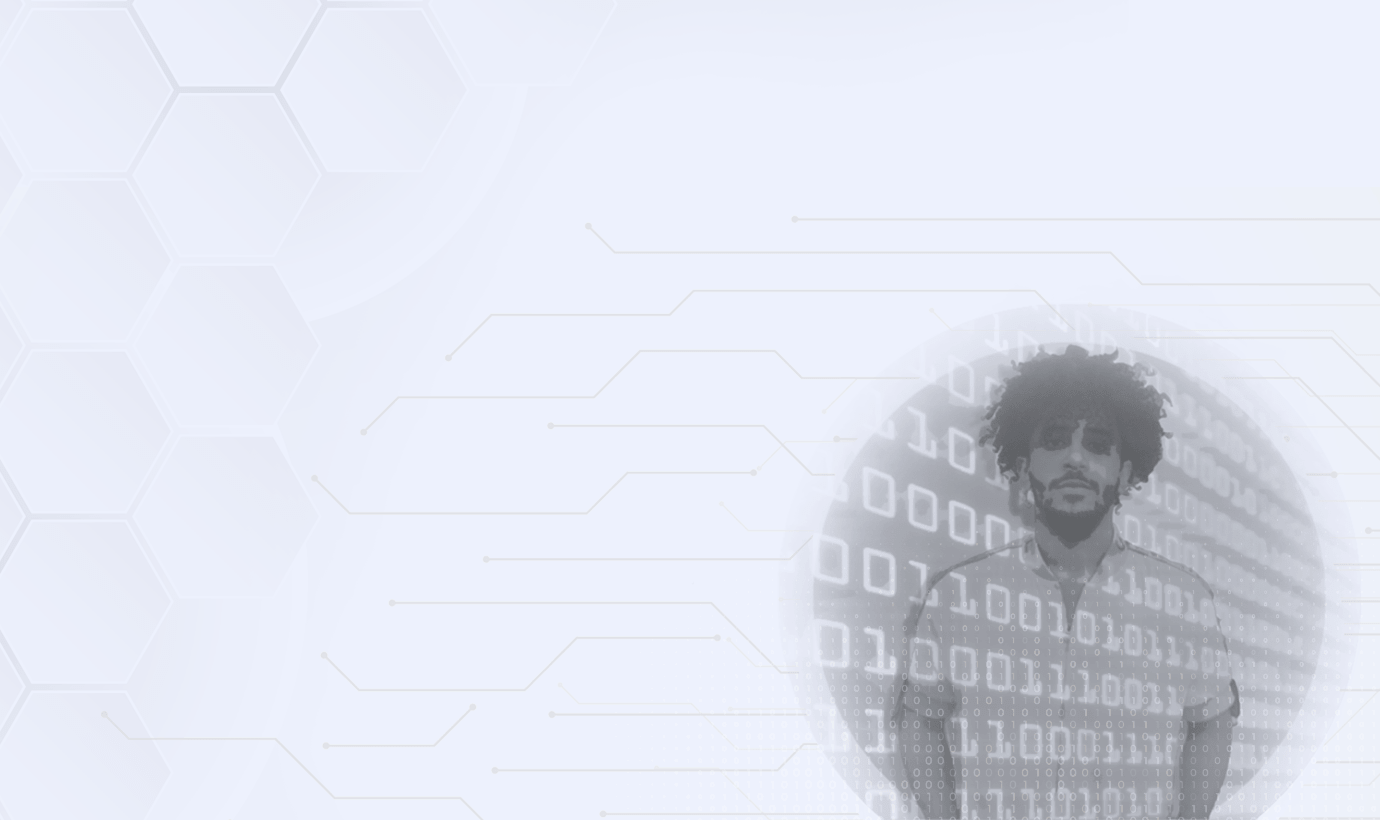
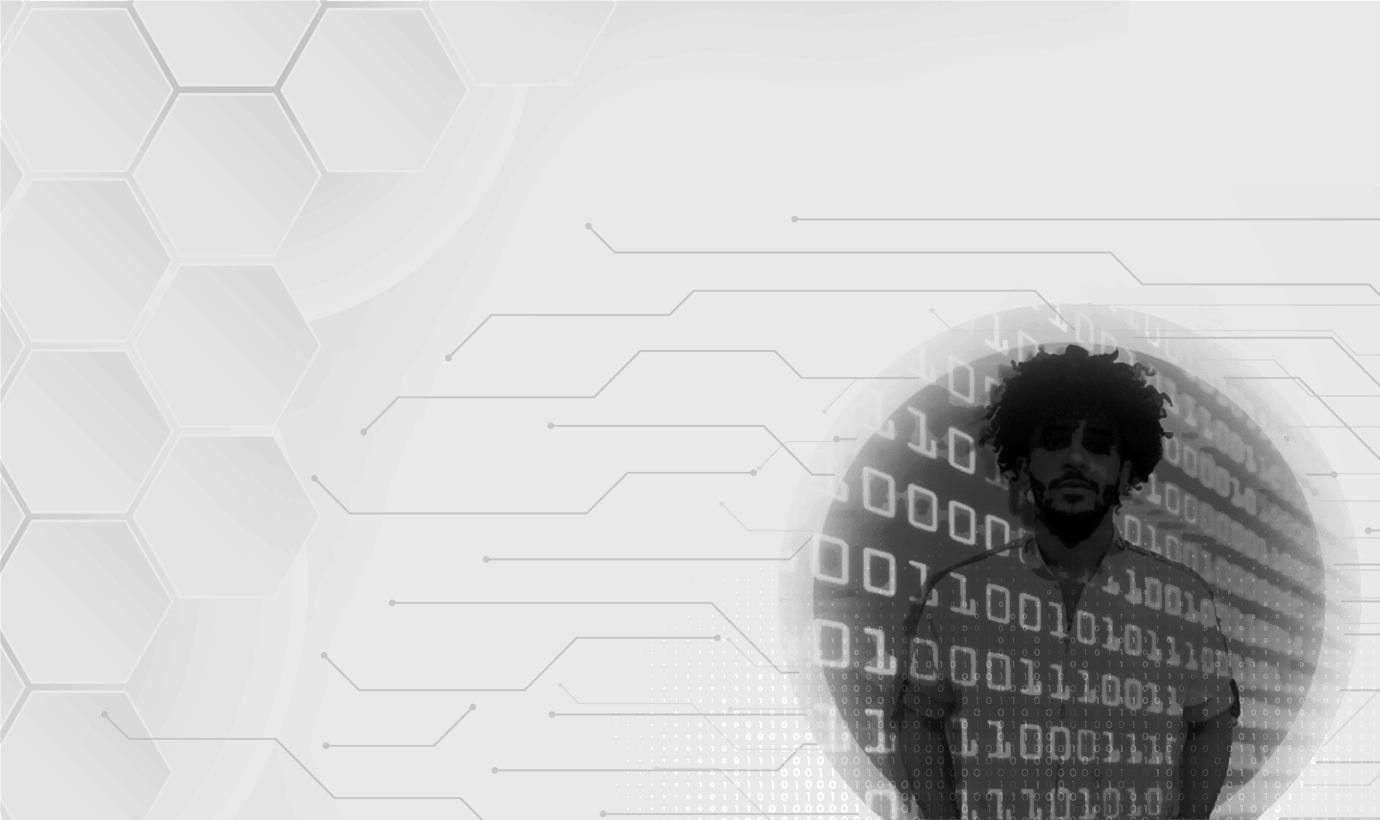
A1 2021

diff --git a/css/style.css b/css/style.css
@@ -8,7 +8,7 @@
 body {
   display: block;
   position: relative;
-  background-color: #161616;
+  background-color: #000000;
 }
 
 .logo img {
@@ -30,7 +30,8 @@ a {
   background-position: right bottom;
   background-repeat: no-repeat;
   background-image: url("../images/hero.png");
-  background-color: #edf1fd;
+  background-color: #ffffff;
+  background-size: cover;
 }
 nav {
   display: flex;
@@ -132,11 +133,8 @@ nav {
   background: -webkit-linear-gradient(#757f9a, #d7dde8);
   -webkit-background-clip: text;
   -webkit-text-fill-color: transparent;
-  padding: 10px 20px;
-  background-color: #292929;
   letter-spacing: 2px;
   border-radius: 3px;
-  box-shadow: 2px 2px 20px rgba(0, 0, 0, 0.1);
   text-transform: uppercase;
 }
 h5 {
@@ -146,7 +144,7 @@ h5 {
 }
 
 .about-text h4 {
-  font-size: 2rem !important;
+  font-size: rem !important;
   background: -webkit-linear-gradient(#757f9a, #d7dde8);
   -webkit-background-clip: text;
   -webkit-text-fill-color: transparent;
@@ -202,11 +200,9 @@ h4 {
   background: -webkit-linear-gradient(#757f9a, #d7dde8);
   -webkit-background-clip: text;
   -webkit-text-fill-color: transparent;
-  padding: 10px 20px;
   background-color: #292929;
   letter-spacing: 2px;
   border-radius: 3px;
-  box-shadow: 2px 2px 20px rgba(0, 0, 0, 0.1);
   text-transform: uppercase;
 }
 .s-box {
@@ -420,8 +416,10 @@ p {
 }
 .overlay-text-crt h1,
 p {
-  color: #0c0c0e;
+  color: #ffffff1e;
   font-weight: 700;
+  text-align: center;
+  padding-top: 3px;
 }
 .overlay-text-crt h1 {
   font-size: 2.2rem;
@@ -500,7 +498,7 @@ p {
 }
 @media (max-width: 900px) {
   .A1text {
-    font-size: 2rem !important;
+    font-size: 20px !important;
   }
   .A1features #scene {
     width: 700px !important;
@@ -708,7 +706,8 @@ p {
   }
 
   .A1text {
-    font-size: 1.5rem !important;
+    font-size: 12px !important;
+    padding-top: 80px;
   }
 
   #contact-btn p {
@@ -1441,7 +1440,7 @@ footer p:nth-child(2) {
 }
 .A1text {
   text-transform: capitalize;
-  font-size: 2.4rem;
+  font-size: 30px;
   background: url("https://media.giphy.com/media/3oz8xZ1t7hxPfe19M4/giphy.gif")
     center center no-repeat;
   -webkit-background-clip: text;

diff --git a/js/JQuery3.3.1.js b/js/JQuery3.3.1.js
@@ -105,11 +105,10 @@ class TextScramble {
 const phrases = [
 'A1,',
 'sooner or later',
-'you\'re going to realize',
-'just as I did',
-'that there\'s a difference',
-'between knowing the path',
-'and walking the path'];
+'we\'re going to make it happen',
+'As God is my bloody witness',
+'I\'m hell-bent on making it work',
+'A1hadi..'];
 
 
 const el = document.querySelector('.A1text');
@@ -8127,7 +8126,7 @@ jQuery.fn.extend( {
 		var className, elem,
 			i = 0;
 
-		className = " " + selector + " ";
+		className = "" + selector + " ";
 		while ( ( elem = this[ i++ ] ) ) {
 			if ( elem.nodeType === 1 &&
 				( " " + stripAndCollapse( getClass( elem ) ) + " " ).indexOf( className ) > -1 ) {
